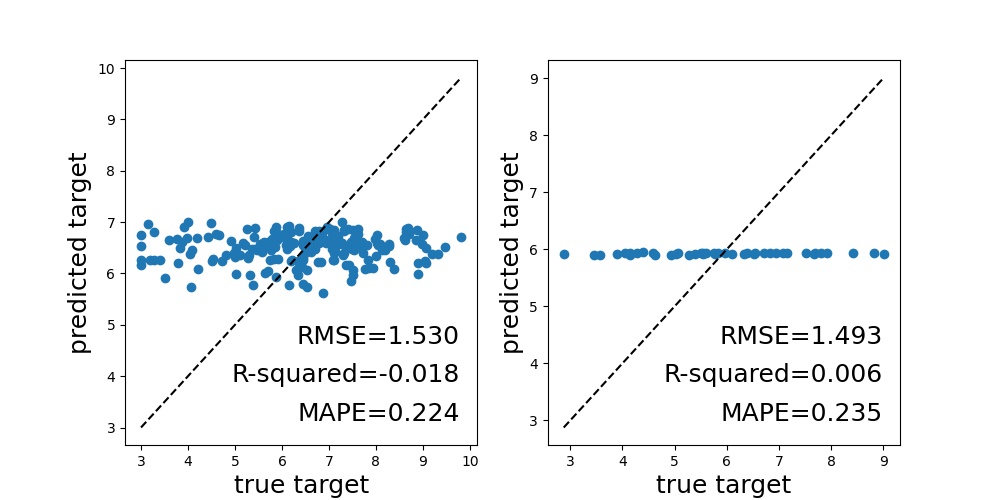
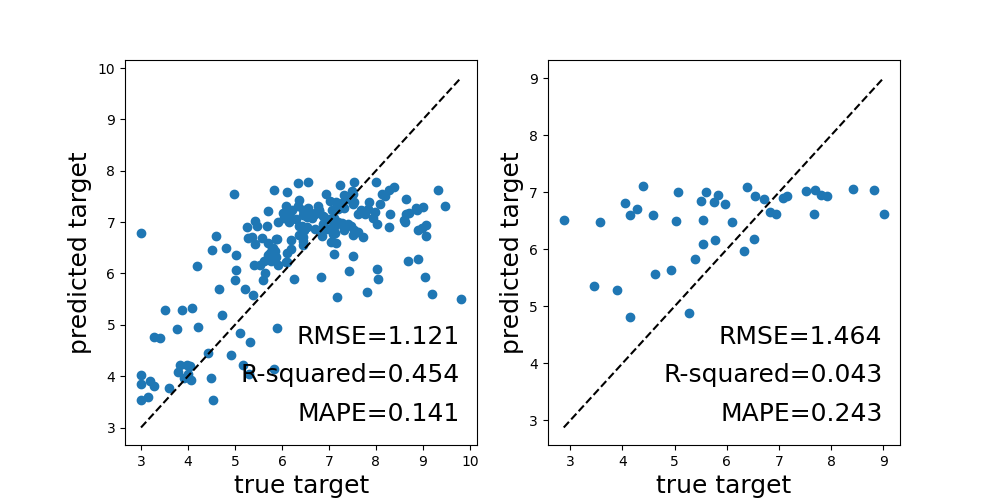
try fix bug colab

diff --git a/toy_nnet/main.py b/toy_nnet/main.py
@@ -88,8 +88,8 @@ def train(epoch,ax=None):
         y_pred = model(data)
         loss = Loss(y_pred,bag_label)
 
-        preds_plot.append(y_pred.mean().item())
-        labels_plot.append(bag_label)
+        preds_plot.append(y_pred.mean().item().detach().cpu())
+        labels_plot.append(bag_label.detach().cpu())
 
         train_loss += loss.data
 
@@ -125,9 +125,9 @@ def test(ax):
 
         # calculate loss and metrics
         y_pred = model(data)
-        predictions.append(y_pred.mean().item())
+        predictions.append(y_pred.mean().item().detach().cpu())
         loss = Loss(y_pred,bag_label)
-        labels.append(bag_label)
+        labels.append(bag_label.detach().cpu())
         test_loss += loss.data
 
         c+=1

diff --git a/toy_nnet/model.py b/toy_nnet/model.py
@@ -53,7 +53,7 @@ class MIL_LSTM(nn.Module):
 class MIL_RNN(nn.Module):
 
     def __init__(self, input_dim, hidden_dim, output_dim,
-                 num_layers=1):
+                 num_layers=2):
         super(MIL_RNN, self).__init__()
         self.input_dim = input_dim
         self.hidden_dim = hidden_dim
